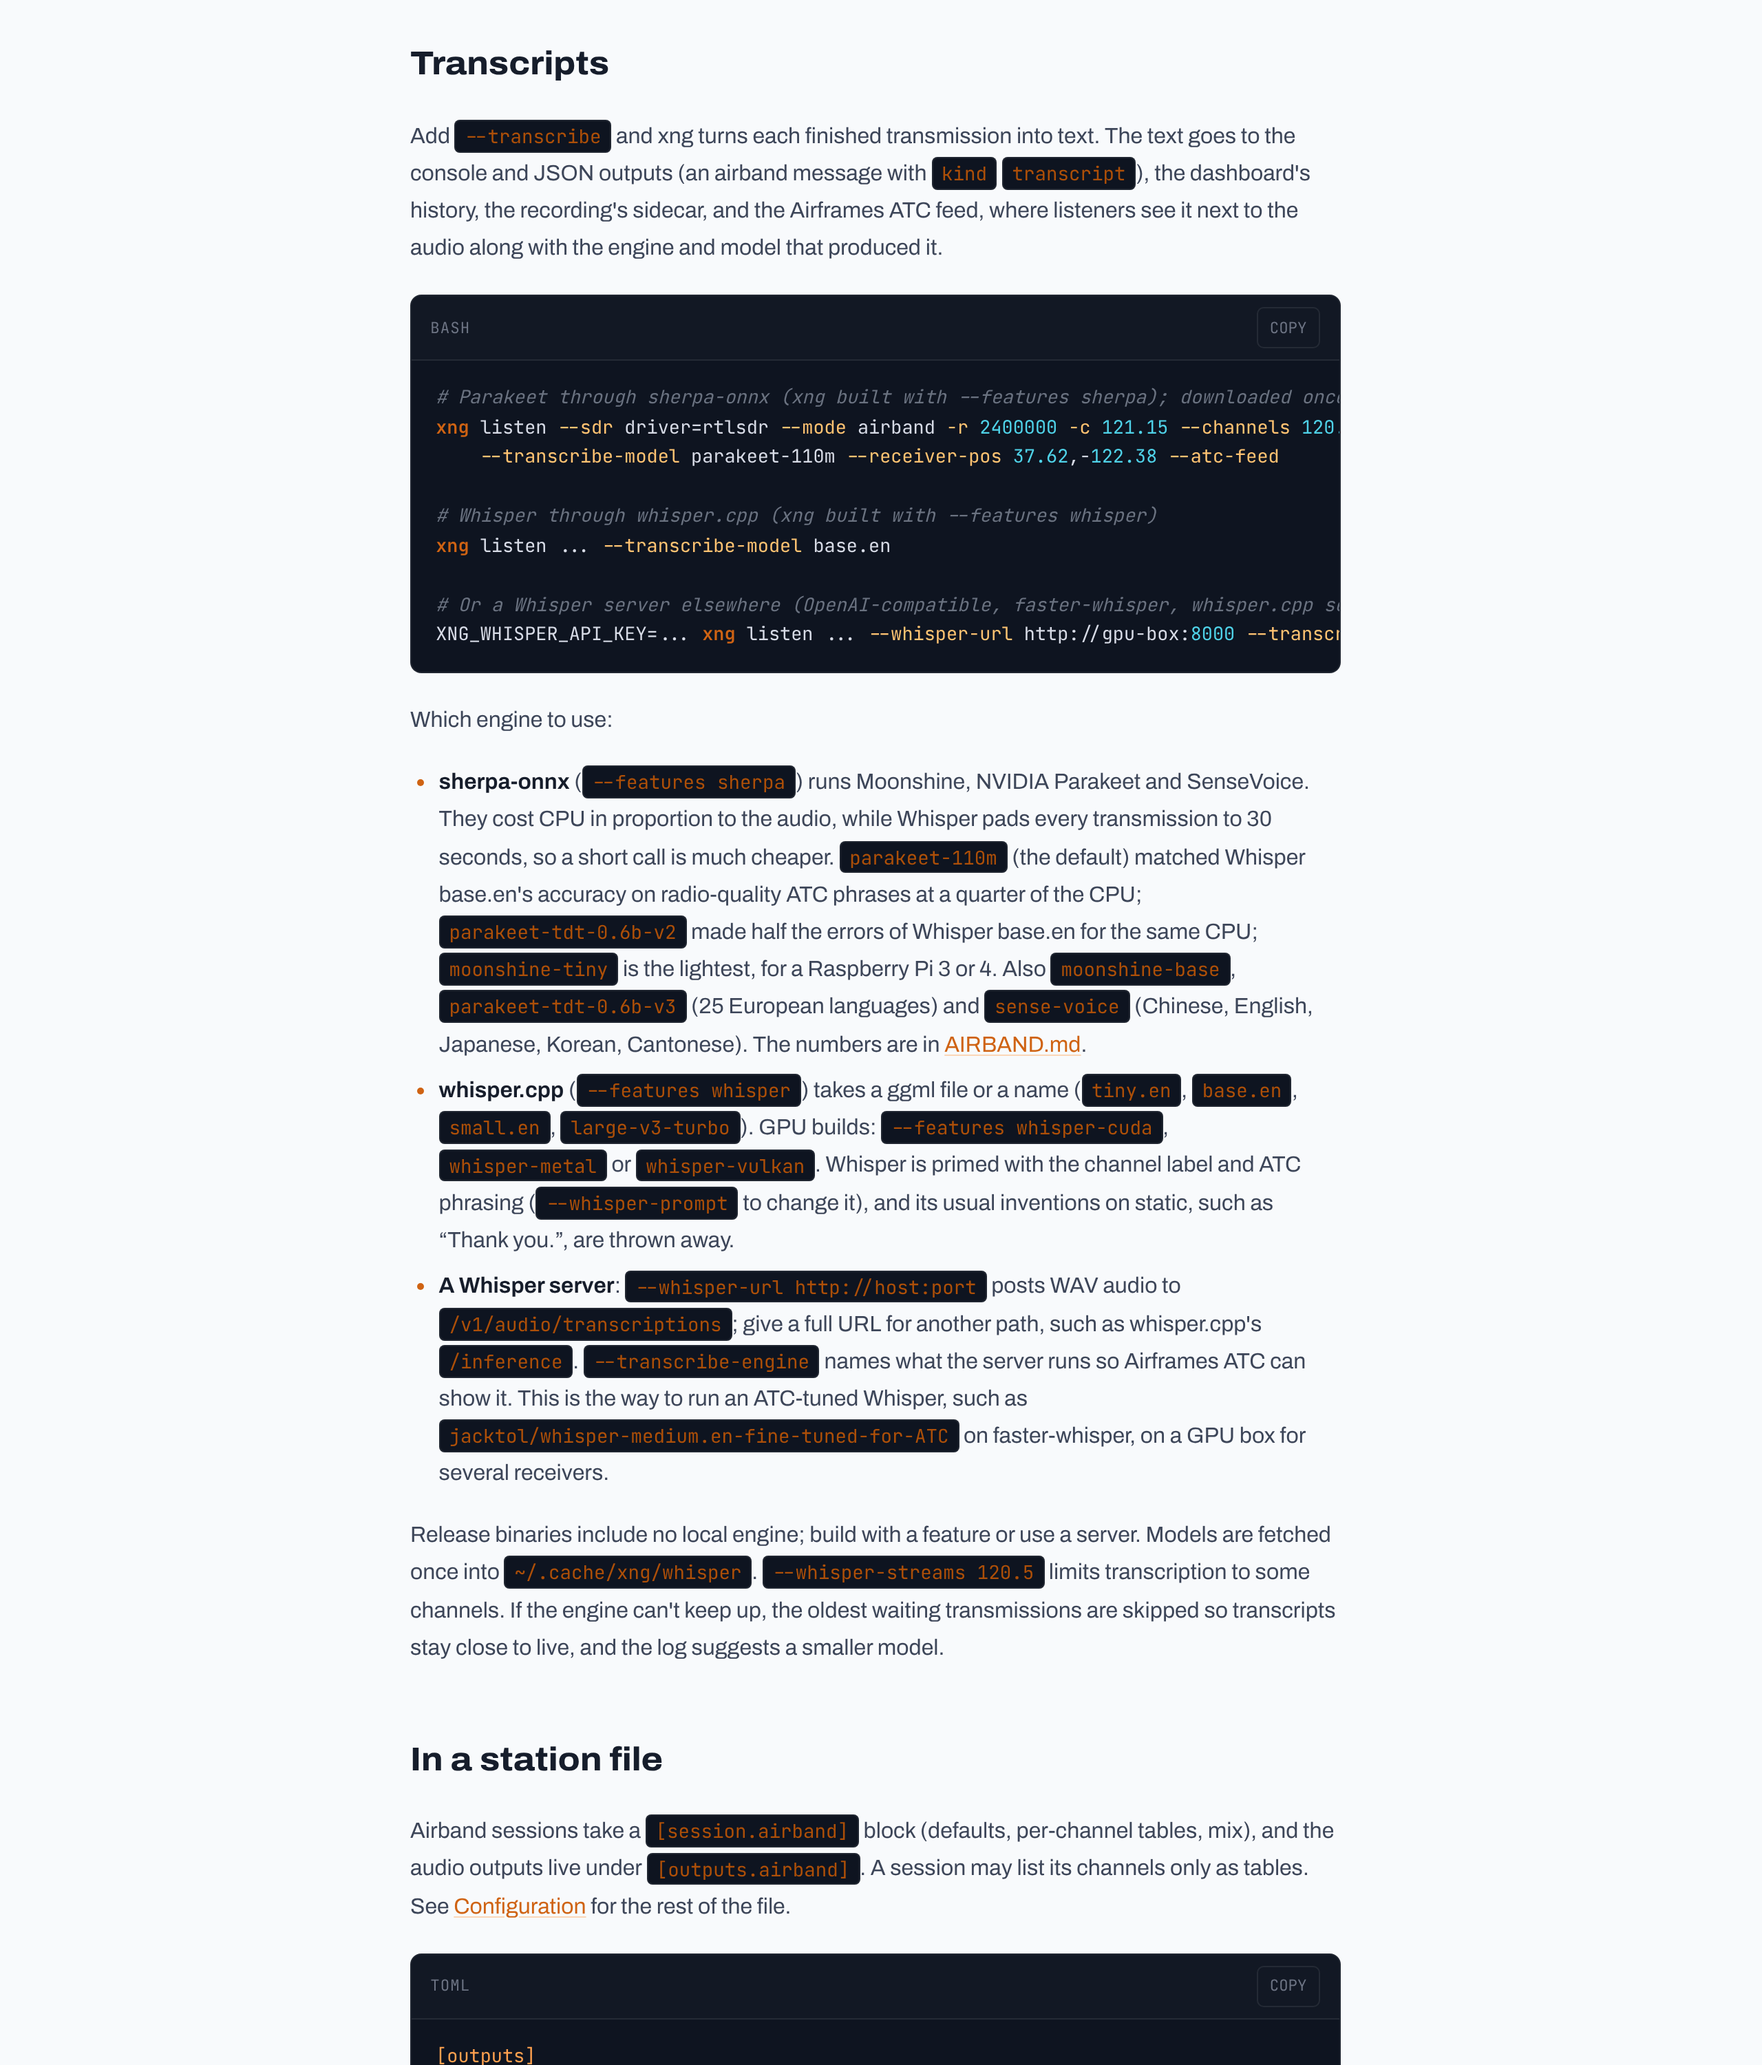
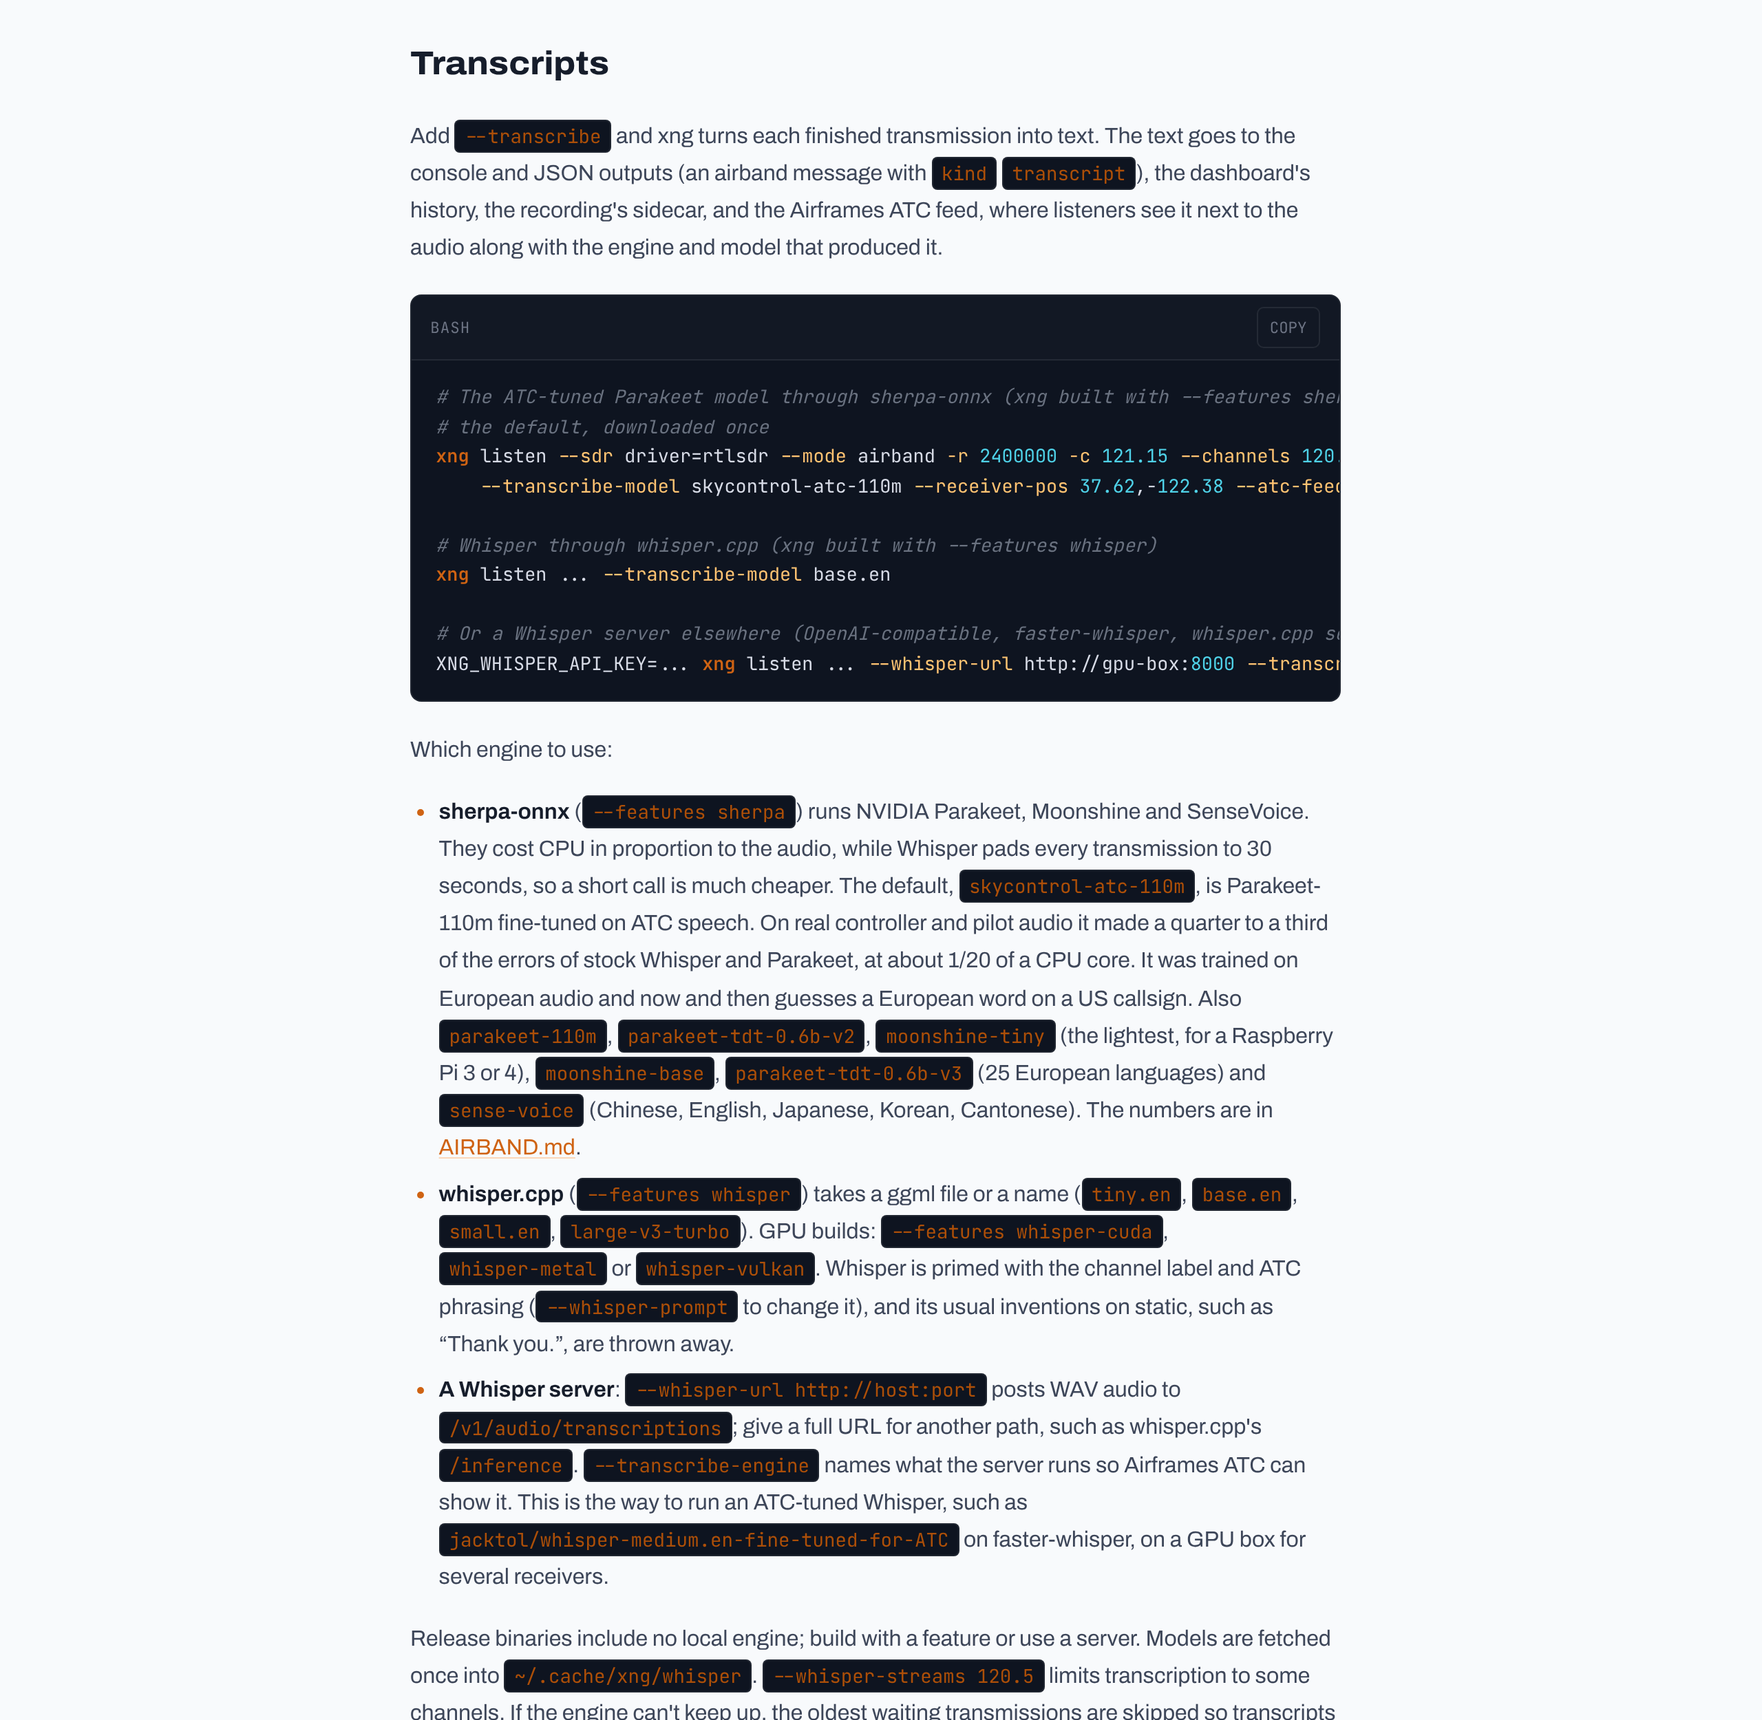
docs(airband): ATC-tuned SkyControl Parakeet is the default transcription model
Claude-Session: https://claude.ai/code/session_01PS44QAcVyLjrbpTUvvqbnn

Changed region(s): [[0.2188, 0.0312, 0.7812, 1.0]]

diff --git a/pages/docs/airband.js b/pages/docs/airband.js
@@ -39,7 +39,7 @@ xng listen --sdr driver=rtlsdr --mode airband -r 2400000 -c 121.15 \\
         <div className="deflist__row"><code>AM and NFM</code><p><code>--modulation am</code> (airband) or <code>nfm</code> (marine, land mobile). AM is carrier-normalised so weak and strong stations play at the same loudness.</p></div>
         <div className="deflist__row"><code>Squelch</code><p><code>auto[:snr_db]</code> tracks each channel&apos;s noise floor (default 9 dB above it), <code>manual:&lt;dBFS&gt;</code> uses a fixed level, <code>off</code> streams continuously. Hang time, open delay, and a short pre-roll so the first syllable is kept.</p></div>
         <div className="deflist__row"><code>Clean-up</code><p>AFC for drifting carriers (<code>--afc</code>), CTCSS tone gating (<code>--ctcss</code>), a notch for a heterodyne (<code>--notch</code>), audio gain.</p></div>
-        <div className="deflist__row"><code>Transcripts</code><p>Speech-to-text for every transmission: Parakeet or Moonshine (sherpa-onnx) or Whisper locally, or a Whisper server. Text shows up in the console, JSON outputs, dashboard, recordings and the ATC feed. See <a href="#transcripts">Transcripts</a>.</p></div>
+        <div className="deflist__row"><code>Transcripts</code><p>Speech-to-text for every transmission: an ATC-tuned Parakeet, Moonshine (sherpa-onnx) or Whisper locally, or a Whisper server. Text shows up in the console, JSON outputs, dashboard, recordings and the ATC feed. See <a href="#transcripts">Transcripts</a>.</p></div>
         <div className="deflist__row"><code>Mix and scan</code><p><code>--mix</code> adds one stream with every channel summed. <code>--scan</code> adds a scanner stream that follows the active channel, with priority channels, a hold time for the reply, lockouts, and a pin, across every SDR in the station.</p></div>
       </div>
 
@@ -151,9 +151,10 @@ xng listen --sdr driver=rtlsdr --mode airband -r 2400000 -c 121.15 --channels 12
       </p>
       <CodeBlock
         lang="bash"
-        code={`# Parakeet through sherpa-onnx (xng built with --features sherpa); downloaded once
+        code={`# The ATC-tuned Parakeet model through sherpa-onnx (xng built with --features sherpa);
+# the default, downloaded once
 xng listen --sdr driver=rtlsdr --mode airband -r 2400000 -c 121.15 --channels 120.5,121.8 \\
-    --transcribe-model parakeet-110m --receiver-pos 37.62,-122.38 --atc-feed
+    --transcribe-model skycontrol-atc-110m --receiver-pos 37.62,-122.38 --atc-feed
 
 # Whisper through whisper.cpp (xng built with --features whisper)
 xng listen ... --transcribe-model base.en
@@ -164,14 +165,17 @@ XNG_WHISPER_API_KEY=... xng listen ... --whisper-url http://gpu-box:8000 --trans
       <p>Which engine to use:</p>
       <ul>
         <li>
-          <strong>sherpa-onnx</strong> (<code>--features sherpa</code>) runs Moonshine, NVIDIA
-          Parakeet and SenseVoice. They cost CPU in proportion to the audio, while Whisper pads every
-          transmission to 30 seconds, so a short call is much cheaper. <code>parakeet-110m</code> (the
-          default) matched Whisper base.en&apos;s accuracy on radio-quality ATC phrases at a quarter of
-          the CPU; <code>parakeet-tdt-0.6b-v2</code> made half the errors of Whisper base.en for the
-          same CPU; <code>moonshine-tiny</code> is the lightest, for a Raspberry Pi 3 or 4. Also{' '}
-          <code>moonshine-base</code>, <code>parakeet-tdt-0.6b-v3</code> (25 European languages) and{' '}
-          <code>sense-voice</code> (Chinese, English, Japanese, Korean, Cantonese). The numbers are in{' '}
+          <strong>sherpa-onnx</strong> (<code>--features sherpa</code>) runs NVIDIA Parakeet,
+          Moonshine and SenseVoice. They cost CPU in proportion to the audio, while Whisper pads every
+          transmission to 30 seconds, so a short call is much cheaper. The default,{' '}
+          <code>skycontrol-atc-110m</code>, is Parakeet-110m fine-tuned on ATC speech. On real
+          controller and pilot audio it made a quarter to a third of the errors of stock Whisper and
+          Parakeet, at about 1/20 of a CPU core. It was trained on European audio and now and then
+          guesses a European word on a US callsign. Also <code>parakeet-110m</code>,{' '}
+          <code>parakeet-tdt-0.6b-v2</code>, <code>moonshine-tiny</code> (the lightest, for a
+          Raspberry Pi 3 or 4), <code>moonshine-base</code>, <code>parakeet-tdt-0.6b-v3</code> (25
+          European languages) and <code>sense-voice</code> (Chinese, English, Japanese, Korean,
+          Cantonese). The numbers are in{' '}
           <a href="https://github.com/airframesio/xng/blob/master/docs/notes/AIRBAND.md#choosing-a-model">
             AIRBAND.md
           </a>
@@ -229,7 +233,7 @@ location-precision-m = 500
 hide-username = true
 
 [outputs.airband.transcribe]
-model = "parakeet-110m"       # or "base.en", or url = "http://gpu-box:8000"
+model = "skycontrol-atc-110m" # or "base.en", or url = "http://gpu-box:8000"
 language = "en"
 
 [[session]]
